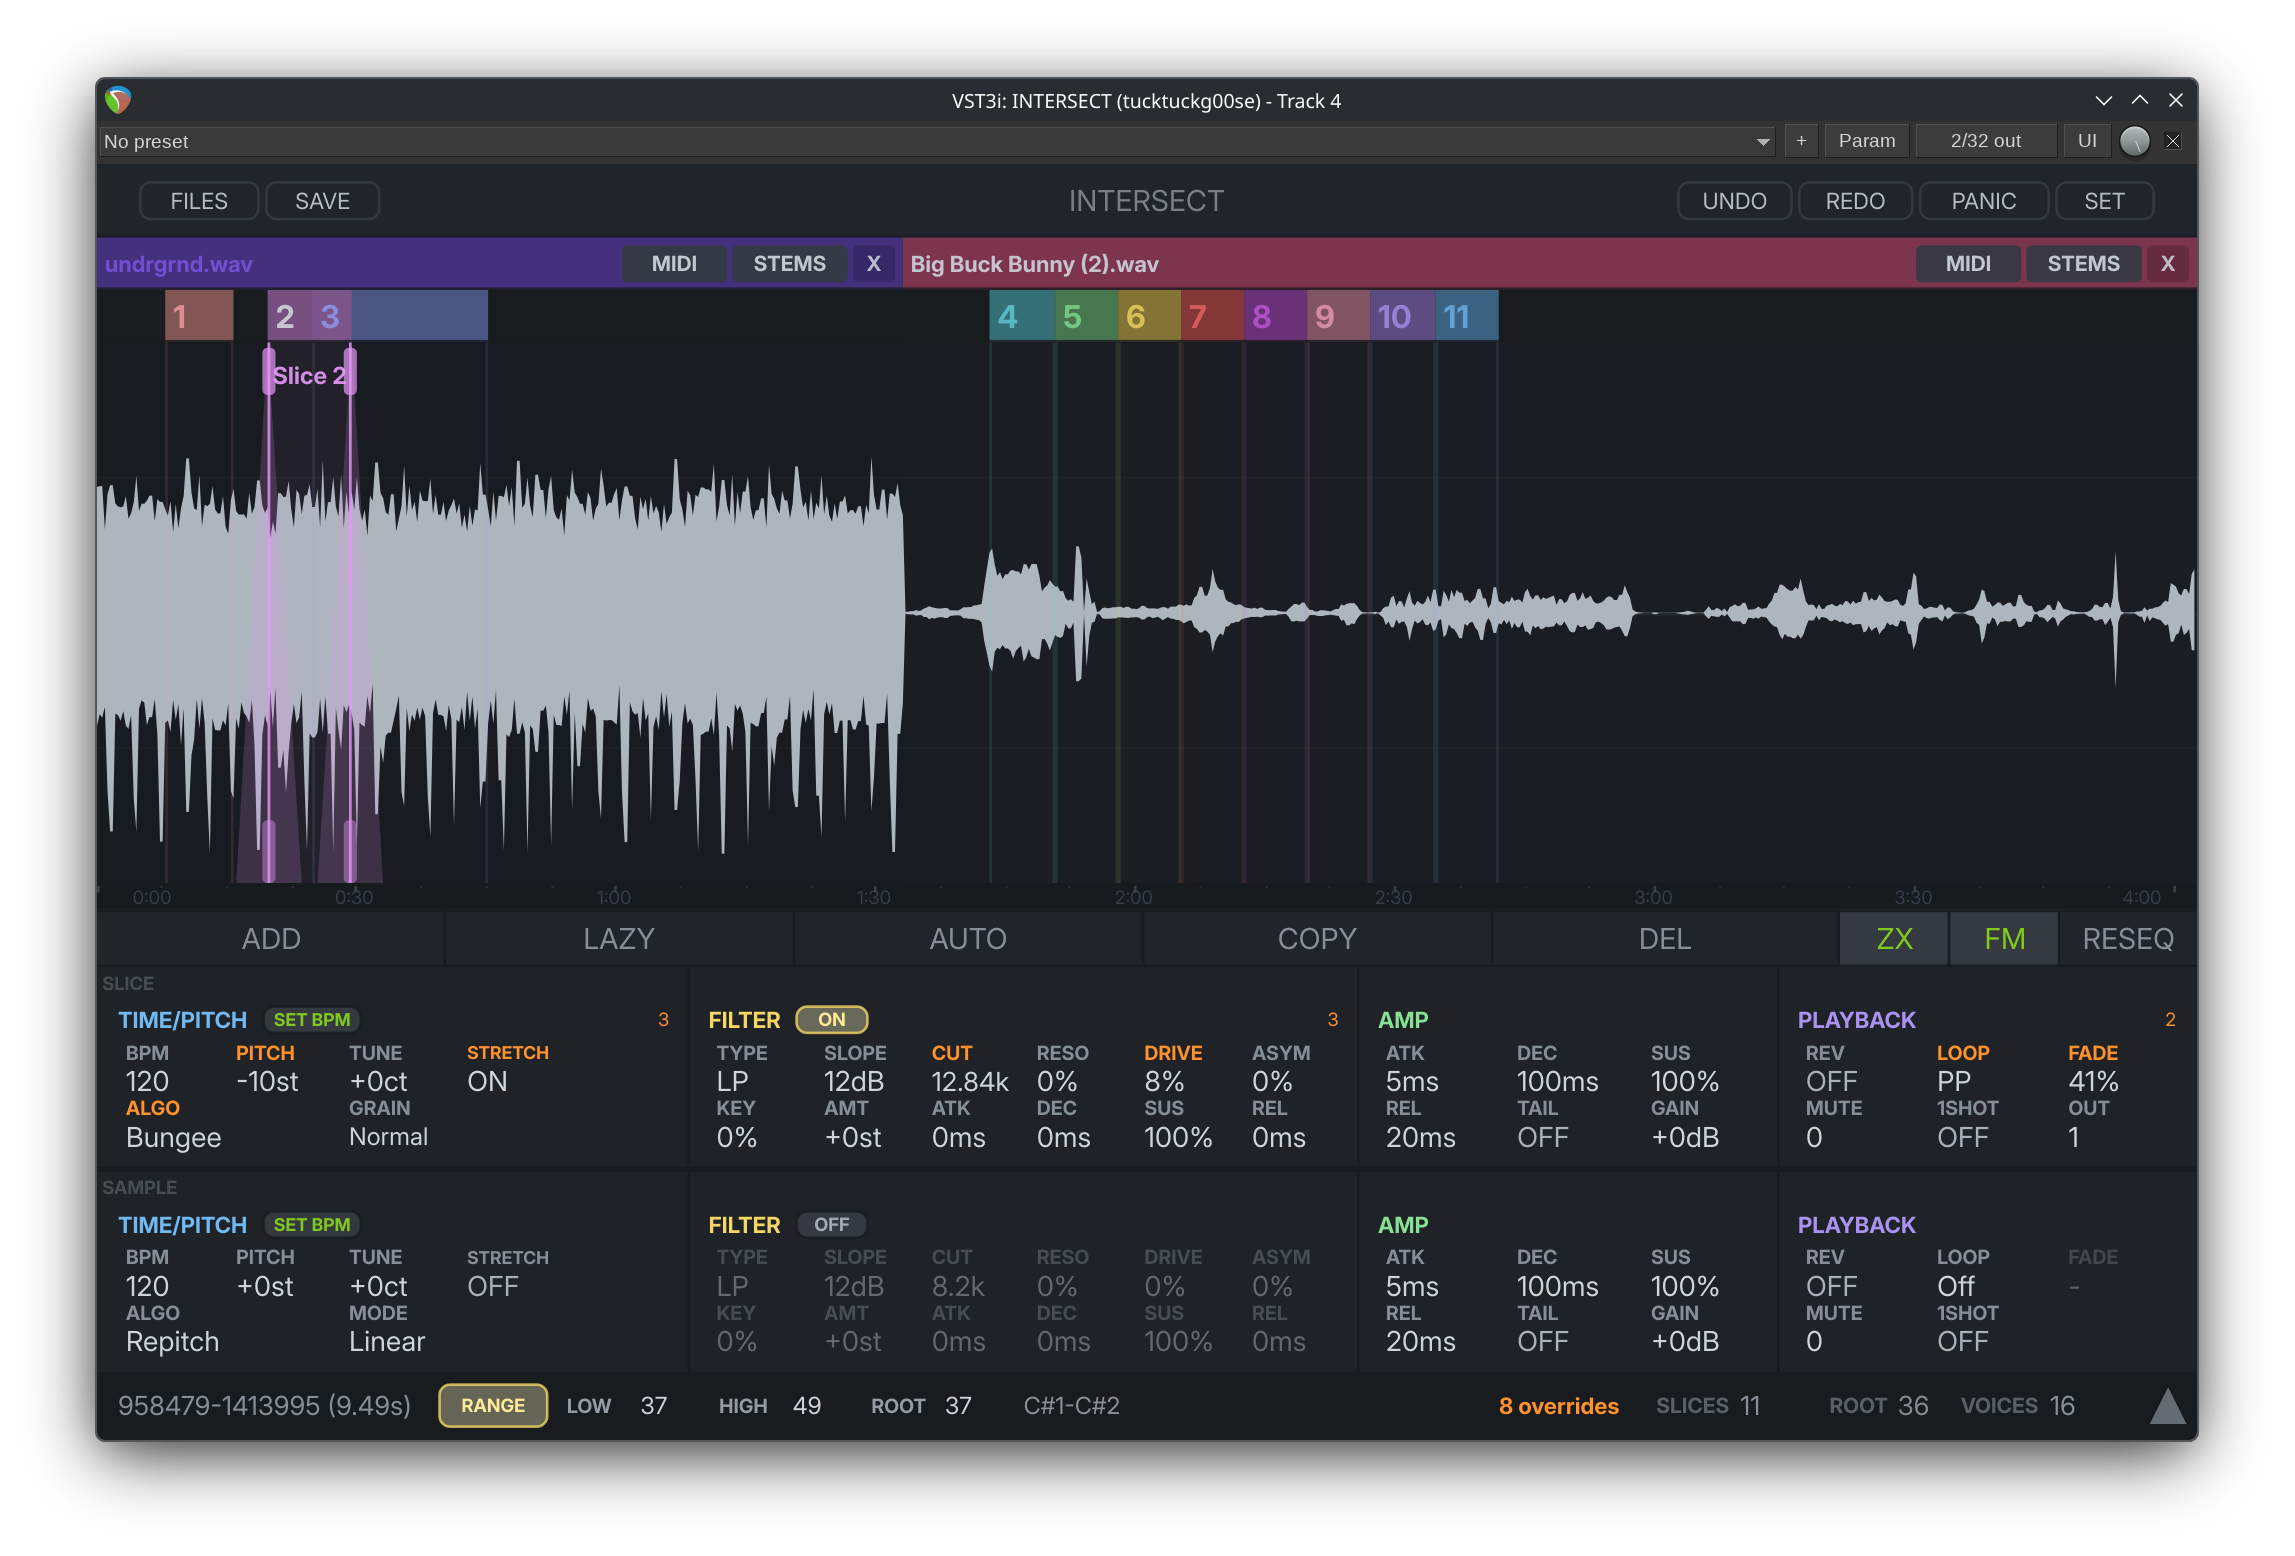
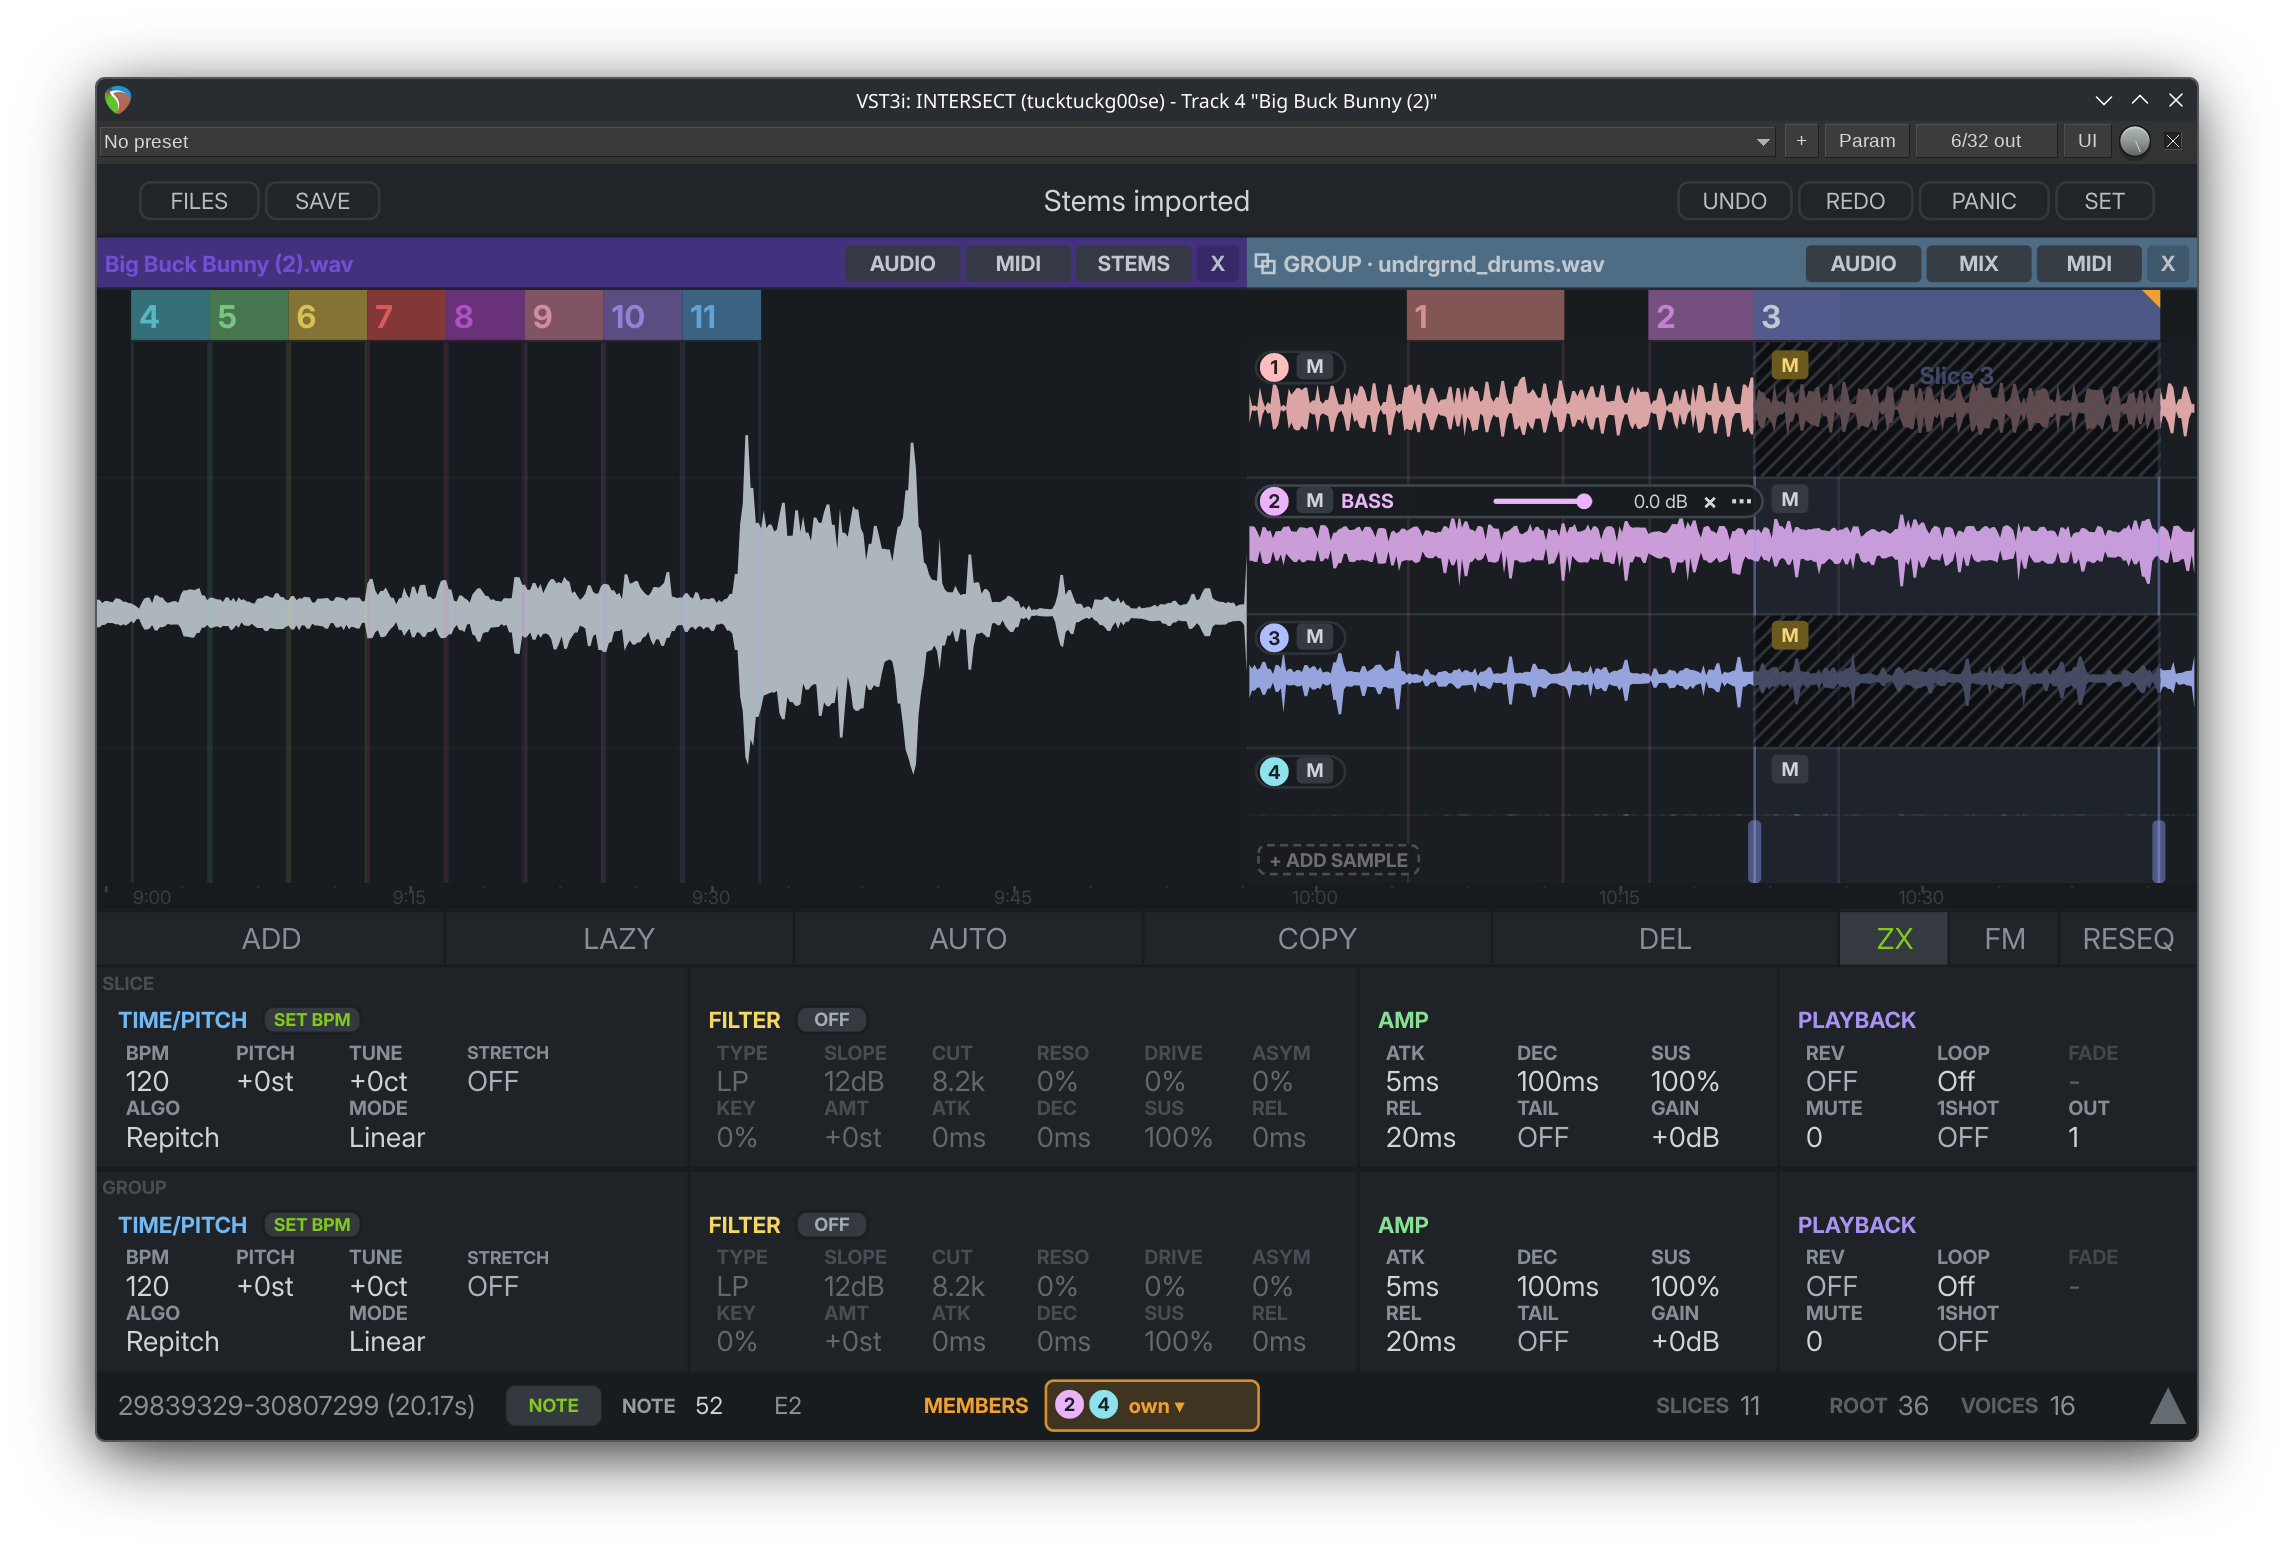
docs: README screenshot of a sample group, and groups in the stem features

diff --git a/README.md b/README.md
@@ -25,8 +25,9 @@ INTERSECT is a free, open-source sample slicer with stem separation built in. It
 - Runs on your own CPU or GPU (DirectML, CoreML, CUDA, MIGraphX), so your audio never leaves your machine
 - Stems land in your session as new samples, starting with their source sample's settings
 - Export one file per stem, or combine stems into one (say, everything but the vocals)
+- Or keep them together as a sample group: slice the song once and every slice plays all its stems on one key, with each stem's mute, level and output set for the whole group or per slice
 
-Docs: [Stem separation](https://tucktuckg00se.github.io/INTERSECT/stem-separation/)
+Docs: [Stem separation](https://tucktuckg00se.github.io/INTERSECT/stem-separation/), [Sample groups](https://tucktuckg00se.github.io/INTERSECT/workflow-basics/#sample-groups)
 
 </details>
 
